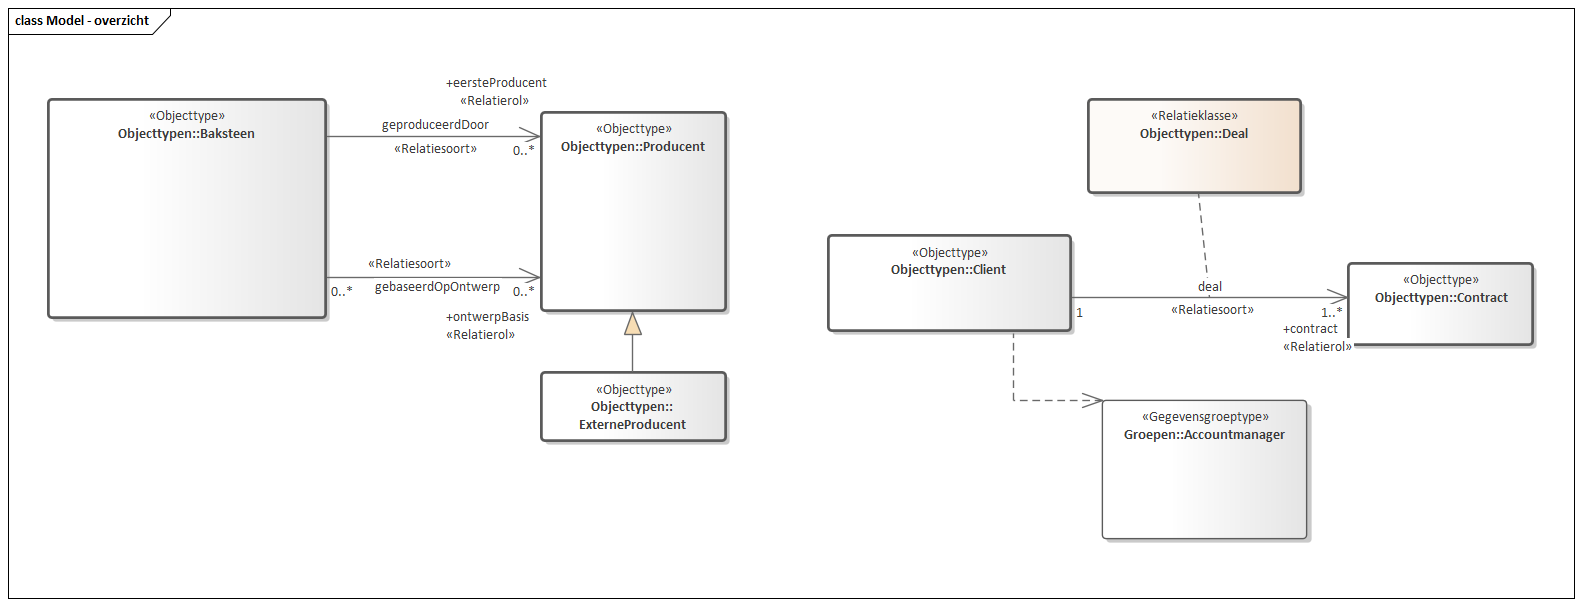
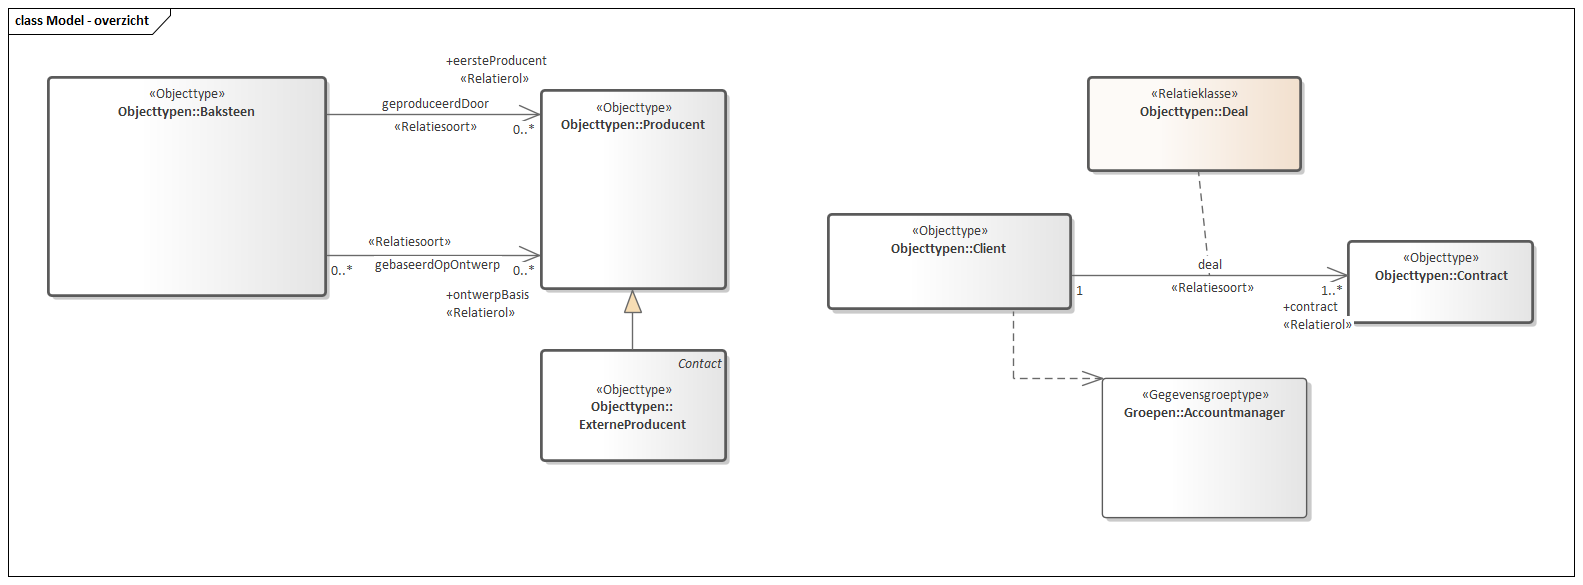
MIMLM-Bakstenenlogischmodel-1.0.0-2-20130319-20211104-103635

diff --git a/data/SAMPLE-cat.respec.html b/data/SAMPLE-cat.respec.html
@@ -1,18 +1,18 @@
 
 <!DOCTYPE HTML><section id="cat" class="normative">
    <h2>Gegevensdefinitie</h2>
-   <!--MIMLM-Bakstenenlogischmodel-1.0.0-2-20130319-20211104-103111 imvertor 1.65.3--><a class="anchor" id="global_d18893e1"></a><section id="global_d18893e1">
+   <!--MIMLM-Bakstenenlogischmodel-1.0.0-2-20130319-20211104-103635 imvertor 1.65.3--><a class="anchor" id="global_d19351e1"></a><section id="global_d19351e1">
       <h3>Model   Bakstenen logisch model</h3>
       <section id="EAID_08513AA0_8A50_46c1_AD86_9B80D9A6AAE1">
          <h4>   Model - overzicht</h4>
-         <div class="imageinfo overview"><img src="data/Images/EAID_08513AA0_8A50_46c1_AD86_9B80D9A6AAE1.png" usemap="#imagemap-EAID_08513AA0_8A50_46c1_AD86_9B80D9A6AAE1" alt="Diagram &#xA;                        &#xA;                     "><map name="imagemap-EAID_08513AA0_8A50_46c1_AD86_9B80D9A6AAE1"><area shape="rect" alt="Accountmanager" coords="1102,400,1307,539" href="#graph_EAID_29D6B892_B943_494c_94C7_A13DB031E998"><area shape="rect" alt="ExterneProducent" coords="541,372,726,441" href="#graph_EAID_E2C93214_90E2_4151_B719_7BB8CDF8679F"><area shape="rect" alt="Baksteen" coords="48,99,326,318" href="#graph_EAID_CF7C4448_E50C_4c7a_B1D0_C4FCB2EB1814"><area shape="rect" alt="Producent" coords="541,112,726,311" href="#graph_EAID_04EED45C_4D30_41b9_83EE_65237E1F8E27"><area shape="rect" alt="Deal" coords="1088,99,1301,193" href="#graph_EAID_77692663_02DC_482e_827D_F7D28AF607D8"><area shape="rect" alt="Contract" coords="1348,263,1533,345" href="#graph_EAID_77987690_1141_457d_A33B_E1C7AA1EA812"><area shape="rect" alt="Client" coords="828,235,1071,331" href="#graph_EAID_DF955A82_3E49_4c9d_9C0C_74738600FE1B"></map><p><b>Model - overzicht</b></p>
+         <div class="imageinfo overview"><img src="data/Images/EAID_08513AA0_8A50_46c1_AD86_9B80D9A6AAE1.png" usemap="#imagemap-EAID_08513AA0_8A50_46c1_AD86_9B80D9A6AAE1" alt="Diagram &#xA;                        &#xA;                     "><map name="imagemap-EAID_08513AA0_8A50_46c1_AD86_9B80D9A6AAE1"><area shape="rect" alt="Accountmanager" coords="1102,378,1307,518" href="#graph_EAID_29D6B892_B943_494c_94C7_A13DB031E998"><area shape="rect" alt="ExterneProducent" coords="541,350,726,461" href="#graph_EAID_E2C93214_90E2_4151_B719_7BB8CDF8679F"><area shape="rect" alt="Baksteen" coords="48,77,326,296" href="#graph_EAID_CF7C4448_E50C_4c7a_B1D0_C4FCB2EB1814"><area shape="rect" alt="Producent" coords="541,90,726,289" href="#graph_EAID_04EED45C_4D30_41b9_83EE_65237E1F8E27"><area shape="rect" alt="Deal" coords="1088,77,1301,171" href="#graph_EAID_77692663_02DC_482e_827D_F7D28AF607D8"><area shape="rect" alt="Contract" coords="1348,241,1533,323" href="#graph_EAID_77987690_1141_457d_A33B_E1C7AA1EA812"><area shape="rect" alt="Client" coords="828,214,1071,309" href="#graph_EAID_DF955A82_3E49_4c9d_9C0C_74738600FE1B"></map><p><b>Model - overzicht</b></p>
          </div>
       </section>
    </section><a class="anchor" id="global_package_Baksteenproductie"></a><section id="global_package_Baksteenproductie">
       <h3>Domein   Baksteen productie</h3>
       <section id="EAID_84CEDDF3_6992_489f_A4EE_319145DE4118">
          <h4>   Model - overzicht</h4>
-         <div class="imageinfo overview"><img src="data/Images/EAID_84CEDDF3_6992_489f_A4EE_319145DE4118.png" usemap="#imagemap-EAID_84CEDDF3_6992_489f_A4EE_319145DE4118" alt="Diagram &#xA;                        Overzicht van alle constructies in dit model voor bakstenen en hun producenten.&#xA;                     "><map name="imagemap-EAID_84CEDDF3_6992_489f_A4EE_319145DE4118"><area shape="rect" alt="Gewicht" coords="830,789,1029,939" href="#graph_EAID_11FD40A5_BE06_452a_9307_B5B5155E0EA4"><area shape="rect" alt="Baksteentype Baksteentype" coords="828,611,1028,756" href="#graph_EAID_705E4D02_09C2_4812_AA1F_D80E12C89EE0"><area shape="rect" alt="Steengrootte" coords="342,600,520,742" href="#graph_EAID_65363897_E229_41fd_BE6F_E6B1BACAD458"><area shape="rect" alt="Status" coords="79,601,264,741" href="#graph_EAID_E86D21EE_58FD_4975_9CCB_AFF2434704A8"><area shape="rect" alt="Goniometric" coords="89,912,286,1066" href="#graph_EAID_22DF50AD_91EB_4db3_AA33_D5C2CE2FB906"><area shape="rect" alt="ExterneProducent" coords="554,350,739,508" href="#graph_EAID_E2C93214_90E2_4151_B719_7BB8CDF8679F"><area shape="rect" alt="Baksteen" coords="48,77,326,448" href="#graph_EAID_CF7C4448_E50C_4c7a_B1D0_C4FCB2EB1814"><area shape="rect" alt="Producent" coords="541,90,726,289" href="#graph_EAID_04EED45C_4D30_41b9_83EE_65237E1F8E27"></map><p><b>Model - overzicht</b>
+         <div class="imageinfo overview"><img src="data/Images/EAID_84CEDDF3_6992_489f_A4EE_319145DE4118.png" usemap="#imagemap-EAID_84CEDDF3_6992_489f_A4EE_319145DE4118" alt="Diagram &#xA;                        Overzicht van alle constructies in dit model voor bakstenen en hun producenten.&#xA;                     "><map name="imagemap-EAID_84CEDDF3_6992_489f_A4EE_319145DE4118"><area shape="rect" alt="Contact" coords="823,136,1002,245" href="#graph_EAID_93C17E91_ADB6_47d1_A84C_94E4061BB24E"><area shape="rect" alt="Gewicht" coords="830,789,1029,939" href="#graph_EAID_11FD40A5_BE06_452a_9307_B5B5155E0EA4"><area shape="rect" alt="Baksteentype Baksteentype" coords="828,611,1028,756" href="#graph_EAID_705E4D02_09C2_4812_AA1F_D80E12C89EE0"><area shape="rect" alt="Steengrootte" coords="342,600,520,742" href="#graph_EAID_65363897_E229_41fd_BE6F_E6B1BACAD458"><area shape="rect" alt="Status" coords="79,601,264,741" href="#graph_EAID_E86D21EE_58FD_4975_9CCB_AFF2434704A8"><area shape="rect" alt="Goniometric" coords="89,912,286,1066" href="#graph_EAID_22DF50AD_91EB_4db3_AA33_D5C2CE2FB906"><area shape="rect" alt="ExterneProducent" coords="615,363,928,520" href="#graph_EAID_E2C93214_90E2_4151_B719_7BB8CDF8679F"><area shape="rect" alt="Baksteen" coords="48,77,326,448" href="#graph_EAID_CF7C4448_E50C_4c7a_B1D0_C4FCB2EB1814"><area shape="rect" alt="Producent" coords="541,90,726,289" href="#graph_EAID_04EED45C_4D30_41b9_83EE_65237E1F8E27"></map><p><b>Model - overzicht</b>
                
                <p>Overzicht van alle constructies in dit model voor bakstenen en hun producenten.</p>
                </p>
@@ -20,6 +20,51 @@
       </section>
       <section id="">
          <h4>Objecttypen   </h4>
+         <a class="anchor" id="graph_EAID_93C17E91_ADB6_47d1_A84C_94E4061BB24E"></a><a class="anchor" id="global_class_Baksteenproductie_Contact"></a><section id="global_class_Baksteenproductie_Contact">
+            <h5>   Contact</h5>
+            
+            <table style="width: 100%;">
+               <colgroup style="width: 30%;"></colgroup>
+               <colgroup style="width: 70%;"></colgroup>
+               <tbody>
+                  <tr>
+                     <th>Naam</th>
+                     <td>Contact</td>
+                  </tr>
+               </tbody>
+            </table>
+            
+            <h6>Overzicht attributen  </h6>
+            
+            <table style="width: 100%;">
+               <colgroup style="width: 30%;"></colgroup>
+               <colgroup style="width: 50%;"></colgroup>
+               <colgroup style="width: 10%;"></colgroup>
+               <colgroup style="width: 10%;"></colgroup>
+               <tbody>
+                  <tr>
+                     <th>Attribuutnaam</th>
+                     <th>Definitie</th>
+                     <th>Formaat</th>
+                     <th>Card</th>
+                  </tr>
+                  <tr>
+                     <td>
+                        <a class="link" href="#detail_attribute_Baksteenproductie_Contact_postcodegebied">postcodegebied</a>
+                        </td>
+                     <td>
+                        
+                        <p>Postcodegebied van de producent.</p>
+                        </td>
+                     <td>
+                        Postcode
+                        </td>
+                     <td>1</td>
+                  </tr>
+               </tbody>
+            </table>
+            
+            </section>
          <a class="anchor" id="graph_EAID_CF7C4448_E50C_4c7a_B1D0_C4FCB2EB1814"></a><a class="anchor" id="global_class_Baksteenproductie_Baksteen"></a><section id="global_class_Baksteenproductie_Baksteen">
             <h5>   Baksteen</h5>
             
@@ -506,6 +551,16 @@
                         ExterneProducent
                         is specialisatie van
                         
+                        <a class="link" href="#global_class_Baksteenproductie_Contact">Contact</a>
+                        
+                        </td>
+                     <td></td>
+                  </tr>
+                  <tr>
+                     <td>
+                        ExterneProducent
+                        is specialisatie van
+                        
                         <a class="link" href="#global_class_Baksteenproductie_Producent">Producent</a>
                         
                         </td>
@@ -745,6 +800,48 @@
          
          <section id="">
             <h5>Objecttype details  </h5>
+            <a class="anchor" id="detail_class_Baksteenproductie_Contact"></a><section id="detail_class_Baksteenproductie_Contact">
+               <h6>   Contact</h6>
+               <a class="anchor" id="detail_attribute_Baksteenproductie_Contact_postcodegebied"></a><div class="deepheader" id="detail_attribute_Baksteenproductie_Contact_postcodegebied">
+                  <h7>Attribuutsoort details  <a href="#global_class_Baksteenproductie_Contact">Contact</a> postcodegebied</h7>
+                  
+                  <table style="width: 100%;">
+                     <colgroup style="width: 30%;"></colgroup>
+                     <colgroup style="width: 70%;"></colgroup>
+                     <tbody>
+                        <tr>
+                           <th>Naam</th>
+                           <td>postcodegebied</td>
+                        </tr>
+                        <tr>
+                           <th>Definitie</th>
+                           <td>
+                              
+                              <p>Postcodegebied van de producent.</p>
+                              </td>
+                        </tr>
+                        <tr>
+                           <th>Mogelijk geen waarde</th>
+                           <td>Nee</td>
+                        </tr>
+                        <tr>
+                           <th>Kardinaliteit</th>
+                           <td>1</td>
+                        </tr>
+                        <tr>
+                           <th>Type</th>
+                           <td>
+                              Postcode
+                              </td>
+                        </tr>
+                        <tr>
+                           <th>Indicatie afleidbaar</th>
+                           <td>Zie package</td>
+                        </tr>
+                     </tbody>
+                  </table>
+                  </div>
+               </section>
             <a class="anchor" id="detail_class_Baksteenproductie_Baksteen"></a><section id="detail_class_Baksteenproductie_Baksteen">
                <h6>   Baksteen</h6>
                <a class="anchor" id="detail_attribute_Baksteenproductie_Baksteen_magazijnID"></a><div class="deepheader" id="detail_attribute_Baksteenproductie_Baksteen_magazijnID">
@@ -2566,7 +2663,7 @@
 </section>
 <section id="lis" class="normative">
    <h2>Inhoud van waardenlijsten</h2>
-   <!--MIMLM-Bakstenenlogischmodel-1.0.0-2-20130319-20211104-103111 imvertor 1.65.3-->
+   <!--MIMLM-Bakstenenlogischmodel-1.0.0-2-20130319-20211104-103635 imvertor 1.65.3-->
    <section id="">
       <h3>Referentielijst inhoud   </h3><a class="anchor" id="graph_EAID_705E4D02_09C2_4812_AA1F_D80E12C89EE0"></a><a class="anchor" id="detail_class_Baksteenproductie_Baksteentype"></a><section id="detail_class_Baksteenproductie_Baksteentype">
          <h4>Referentielijst  Baksteentype</h4>
